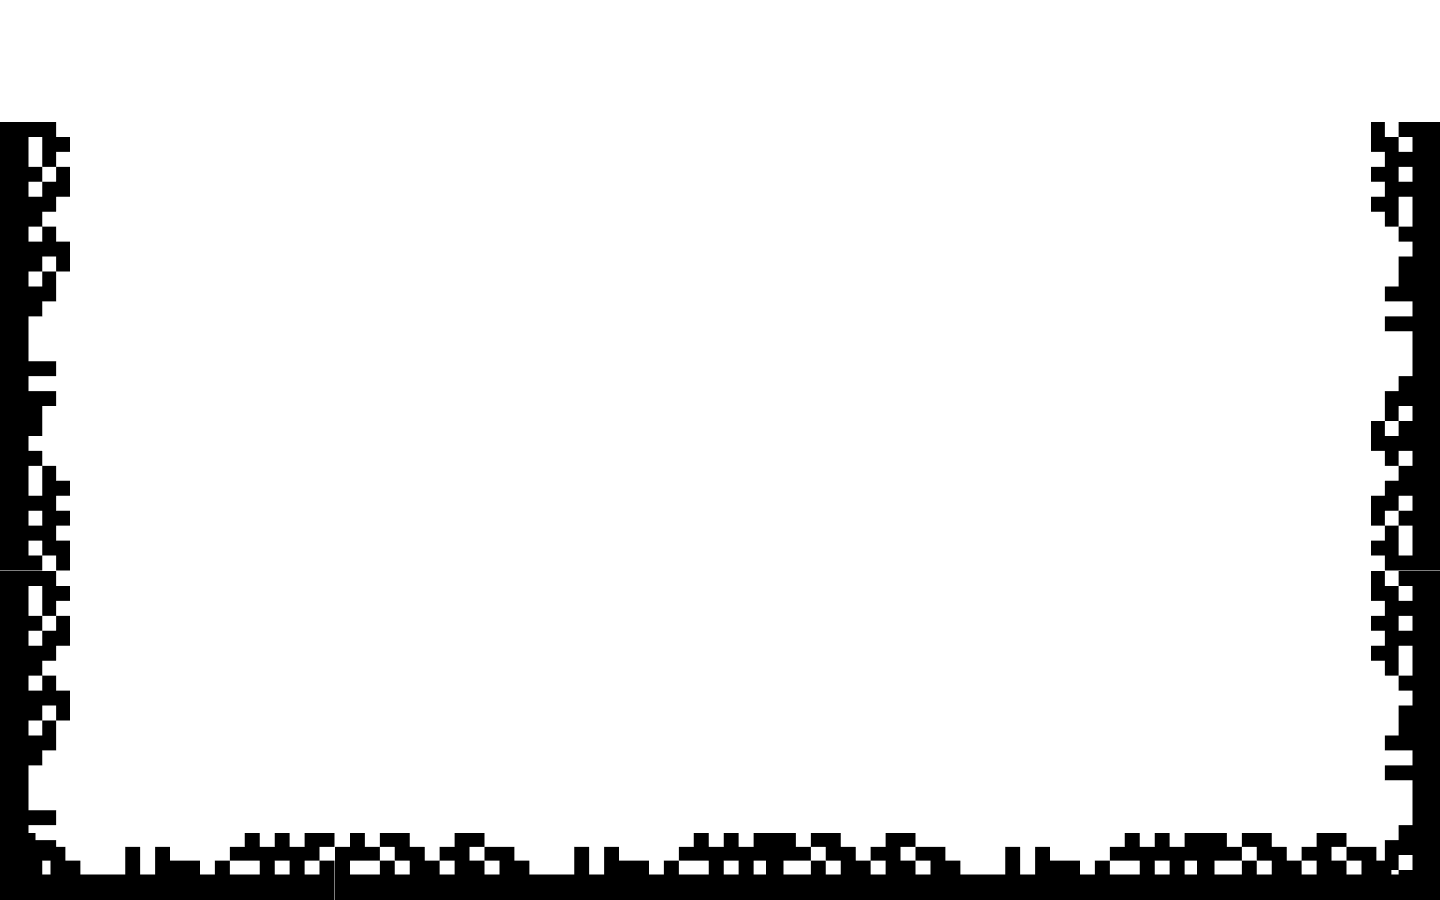
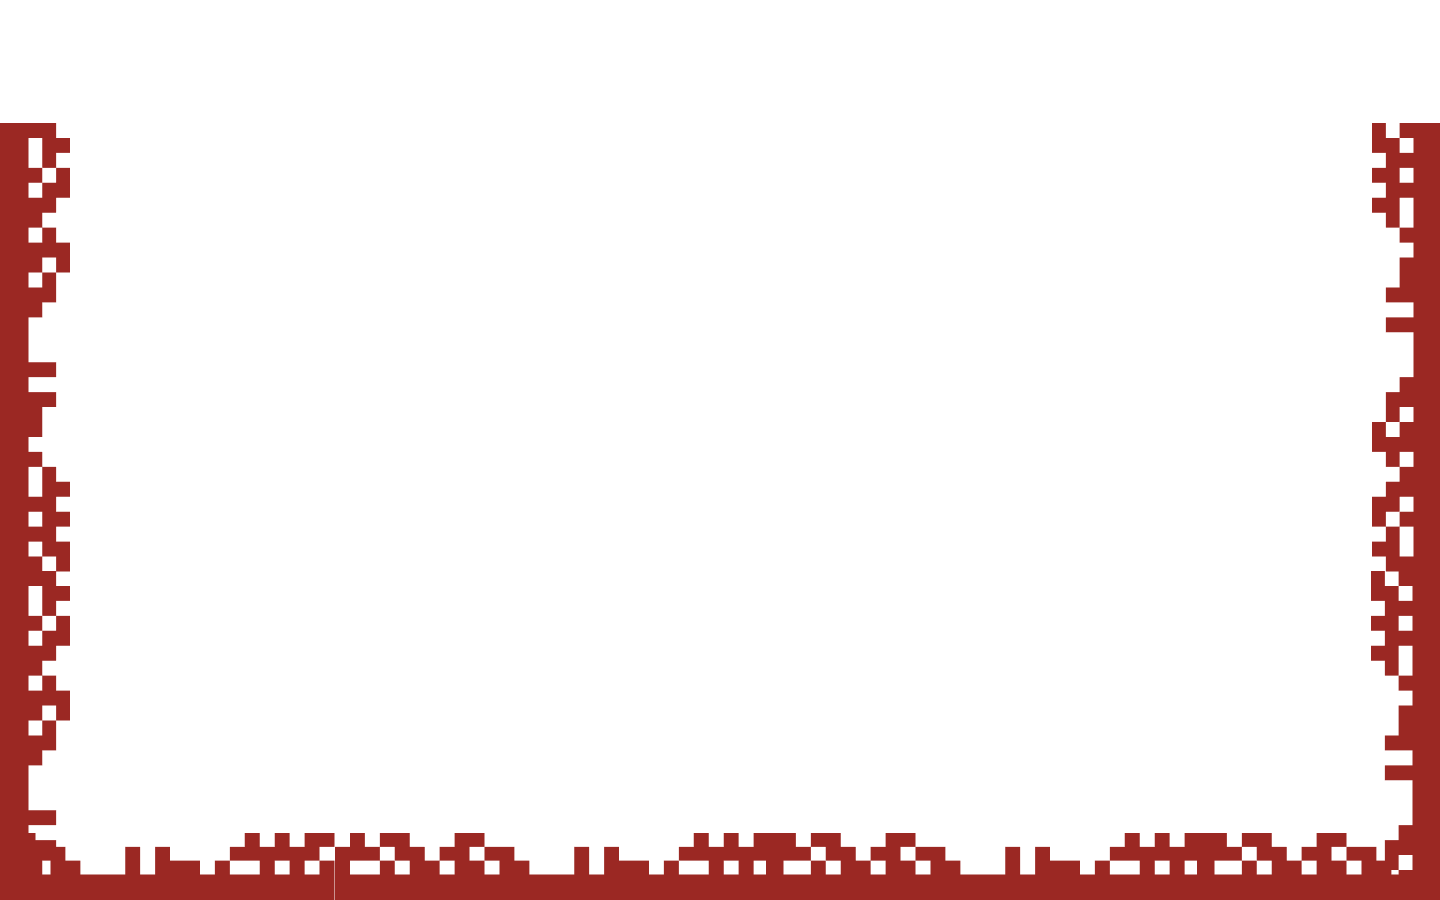
redesign UI

Changed region(s): [[0.0, 0.1244, 1.0, 1.0]]

diff --git a/src/app/components/Navbar.tsx b/src/app/components/Navbar.tsx
@@ -16,14 +16,14 @@ const Navbar: React.FC<NavbarProps> = ({ onSearch }) => {
   };
 
   return (
-    <div className='flex bg-black justify-between items-center py-4 px-12'>
+    <div className='flex bg-[#9B2823] justify-between items-center py-5 px-12'>
       <div>
-        <h1 className='text-[3.125rem] leading-none text-[#FFFFFF]'>SKELETON.AI</h1>
+        <h1 className='text-[3.125rem] leading-none text-[#FFFFFF]'>SKELLY</h1>
       </div>
       <form onSubmit={handleSubmit} className="flex items-center overflow-hidden bg-[#FFFFFF] px-3 rounded-sm h-10 self-center">
         <button type="submit">
           <svg width="18" height="18" viewBox="0 0 21 21" fill="none" xmlns="http://www.w3.org/2000/svg">
-            <path d="M16.031 15.1168L20.3137 19.3995L18.8995 20.8137L14.6168 16.531C13.0769 17.763 11.124 18.5 9 18.5C4.032 18.5 0 14.468 0 9.5C0 4.532 4.032 0.5 9 0.5C13.968 0.5 18 4.532 18 9.5C18 11.624 17.263 13.5769 16.031 15.1168ZM14.0247 14.3748C15.2475 13.1146 16 11.3956 16 9.5C16 5.6325 12.8675 2.5 9 2.5C5.1325 2.5 2 5.6325 2 9.5C2 13.3675 5.1325 16.5 9 16.5C10.8956 16.5 12.6146 15.7475 13.8748 14.5247L14.0247 14.3748Z" fill="black" />
+            <path d="M16.031 15.1168L20.3137 19.3995L18.8995 20.8137L14.6168 16.531C13.0769 17.763 11.124 18.5 9 18.5C4.032 18.5 0 14.468 0 9.5C0 4.532 4.032 0.5 9 0.5C13.968 0.5 18 4.532 18 9.5C18 11.624 17.263 13.5769 16.031 15.1168ZM14.0247 14.3748C15.2475 13.1146 16 11.3956 16 9.5C16 5.6325 12.8675 2.5 9 2.5C5.1325 2.5 2 5.6325 2 9.5C2 13.3675 5.1325 16.5 9 16.5C10.8956 16.5 12.6146 15.7475 13.8748 14.5247L14.0247 14.3748Z" fill="#9B2823" />
           </svg>
         </button>
         <input

diff --git a/src/app/layout.tsx b/src/app/layout.tsx
@@ -1,23 +1,11 @@
 import type { Metadata } from "next";
-import localFont from "next/font/local";
-import { Afacad } from 'next/font/google';
+import { Pixelify_Sans } from 'next/font/google';
 import "./globals.css";
 
-const geistSans = localFont({
-  src: "./fonts/GeistVF.woff",
-  variable: "--font-geist-sans",
-  weight: "100 900",
-});
-const geistMono = localFont({
-  src: "./fonts/GeistMonoVF.woff",
-  variable: "--font-geist-mono",
-  weight: "100 900",
-});
-
-const afacad = Afacad({
+const pixelifySans = Pixelify_Sans({
   subsets: ['latin'],
   weight: ['400', '500', '700'],
-  variable: '--font-afacad',
+  variable: '--font-pixelify-sans',
 });
 
 export const metadata: Metadata = {
@@ -33,7 +21,7 @@ export default function RootLayout({
   return (
     <html lang="en">
       <body
-        className={`${geistSans.variable} ${geistMono.variable} ${afacad.variable} font-afacad antialiased bg-slate-500`}
+        className={`${pixelifySans.variable} font-pixelify-sans antialiased bg-slate-500`}
       >
         {children}
       </body>

diff --git a/src/app/components/SkeletonItem.tsx b/src/app/components/SkeletonItem.tsx
@@ -180,7 +180,7 @@ const SkeletonItem: React.FC<SkeletonProps> = ({
             <p className="text-white">
               {address.slice(0, 4)}...{address.slice(-4)}
             </p>
-            <p className="text-white">{`${size.toFixed(2)} $SKELETON`}</p>
+            <p className="text-white">{`${size.toFixed(2)} $SKELLY`}</p>
             <p className="text-white">{`${percentage.toFixed(2)}%`}</p>
           </div>,
           document.body

diff --git a/src/app/globals.css b/src/app/globals.css
@@ -5,6 +5,7 @@
 :root {
   --background: #ffffff;
   --foreground: #171717;
+  --font-pixelify-sans: 'Pixelify Sans', sans-serif;
 }
 
 @media (prefers-color-scheme: dark) {
@@ -17,7 +18,7 @@
 body {
   color: var(--foreground);
   background: var(--background);
-  font-family: Arial, Helvetica, sans-serif;
+  font-family: var(--font-pixelify-sans);
 }
 
 @keyframes highlight {

diff --git a/src/app/components/Recent.tsx b/src/app/components/Recent.tsx
@@ -56,7 +56,7 @@ const Recent: React.FC<SkeletonProps> = () => {
   }
 
   return (
-    <div className="fixed top-36 right-20 text-black">
+    <div className="fixed top-36 right-20 text-[#9B2823]">
       <div className="flex flex-col">
         <div className="bg-white shadow-lg">
           <button 
